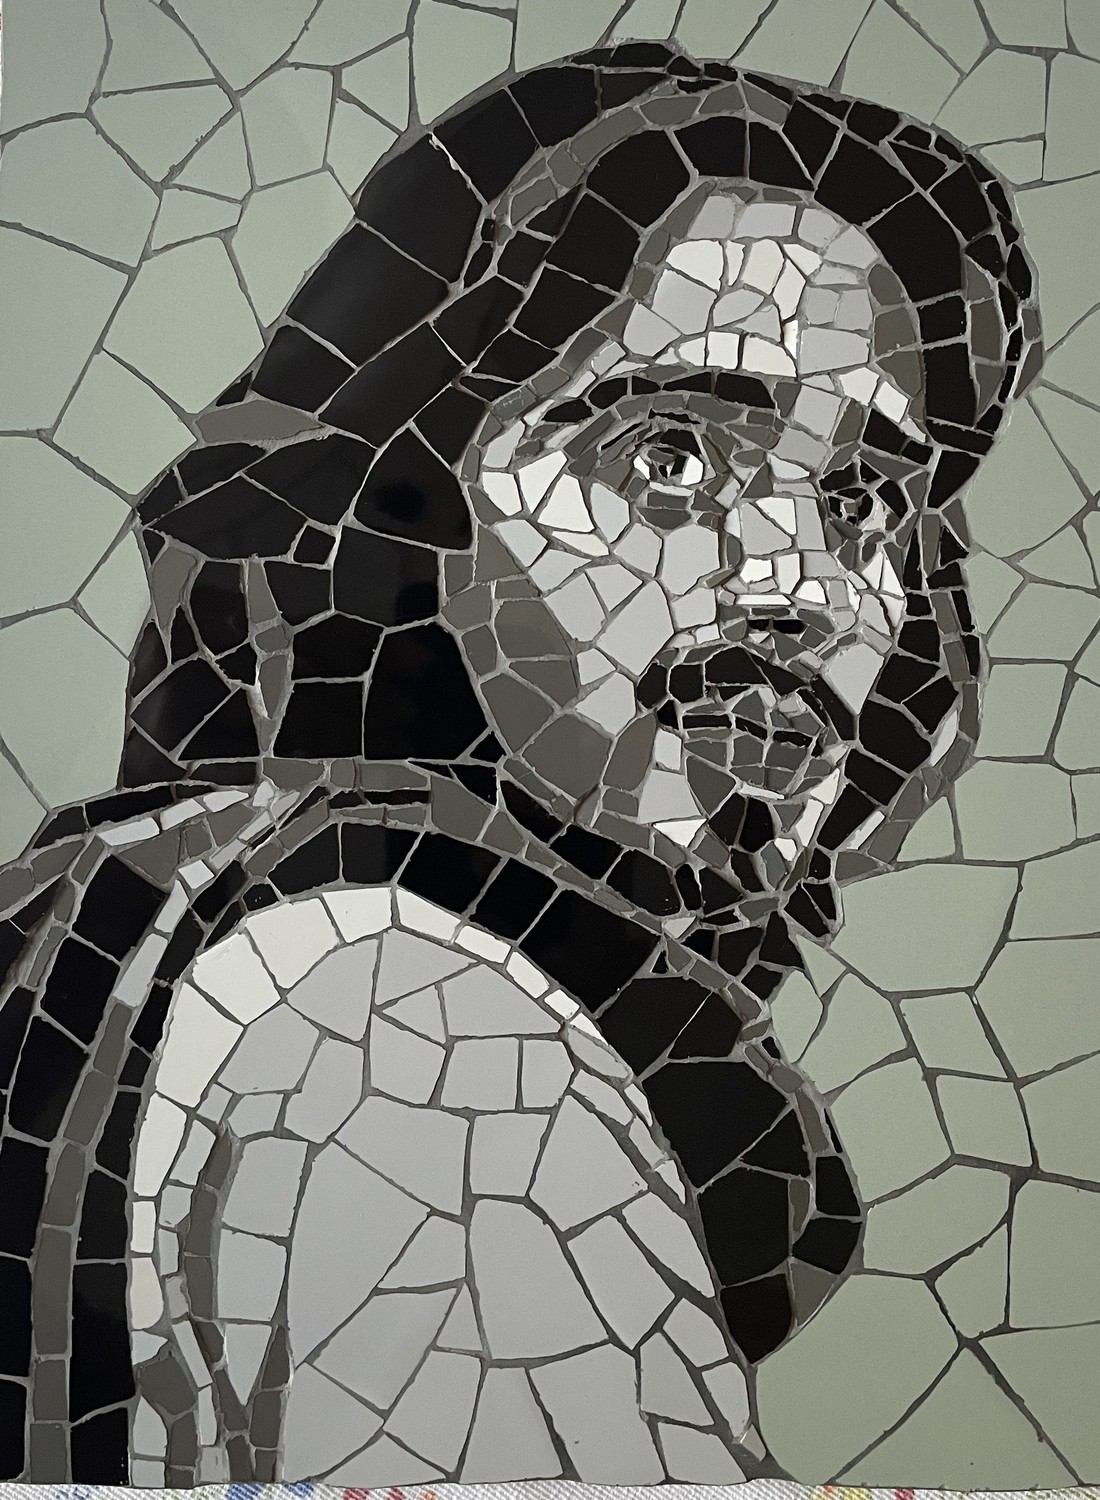
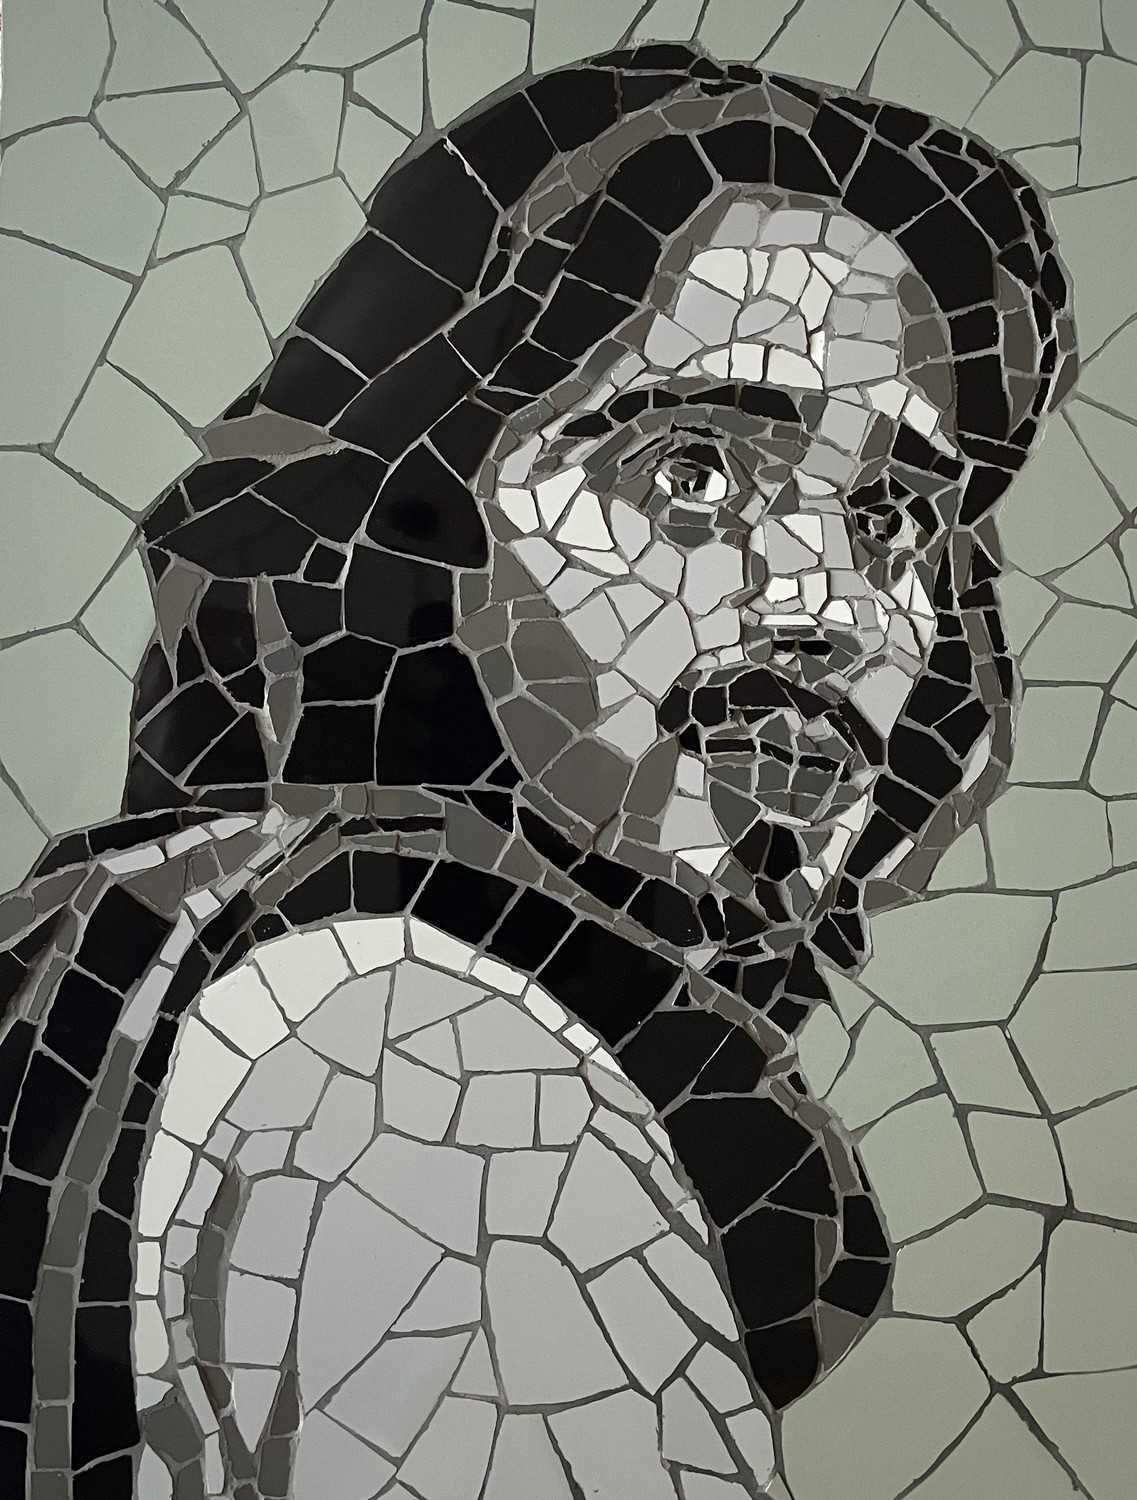
Galerie-Karten randlos (cover, 9:10) + Mauro-Bild unten sauber nachgeschnitten
- Galerie: .gcard__image jetzt object-fit: cover bei Seitenverhältnis 9:10
  → keine cremefarbenen Raender mehr (fuellt die hochformatigen Portraets
  nahezu verlustfrei; quadratische Fliesen verlieren nur ~5% Cremerand).
- portrait-1 (Mauro): Unterkante enger geschnitten (B 0.875 -> 0.853),
  der Hintergrund-/Stoffstreifen am unteren Rand ist entfernt.

diff --git a/site/assets/css/styles.css b/site/assets/css/styles.css
@@ -808,8 +808,8 @@ body[data-menu-style="lines"] .menu::after  { bottom: 0; }
 }
 .gcard__image {
   display: block;
-  width: clamp(168px, 22vw, 230px);
-  aspect-ratio: 1 / 1;
+  width: clamp(172px, 22vw, 232px);
+  aspect-ratio: 9 / 10;   /* leicht hochkant → füllt die Porträts ~verlustfrei */
   overflow: hidden;
   border-radius: 12px;
   background: var(--color-surface);
@@ -821,7 +821,7 @@ body[data-menu-style="lines"] .menu::after  { bottom: 0; }
 .gcard__image img {
   width: 100%;
   height: 100%;
-  object-fit: contain;   /* ganze Mosaik zeigen — keine Köpfe/Motive anschneiden */
+  object-fit: cover;     /* Karte randlos füllen — keine cremefarbenen Ränder */
   display: block;
 }
 .gcard__image:hover { transform: translateY(-4px); }